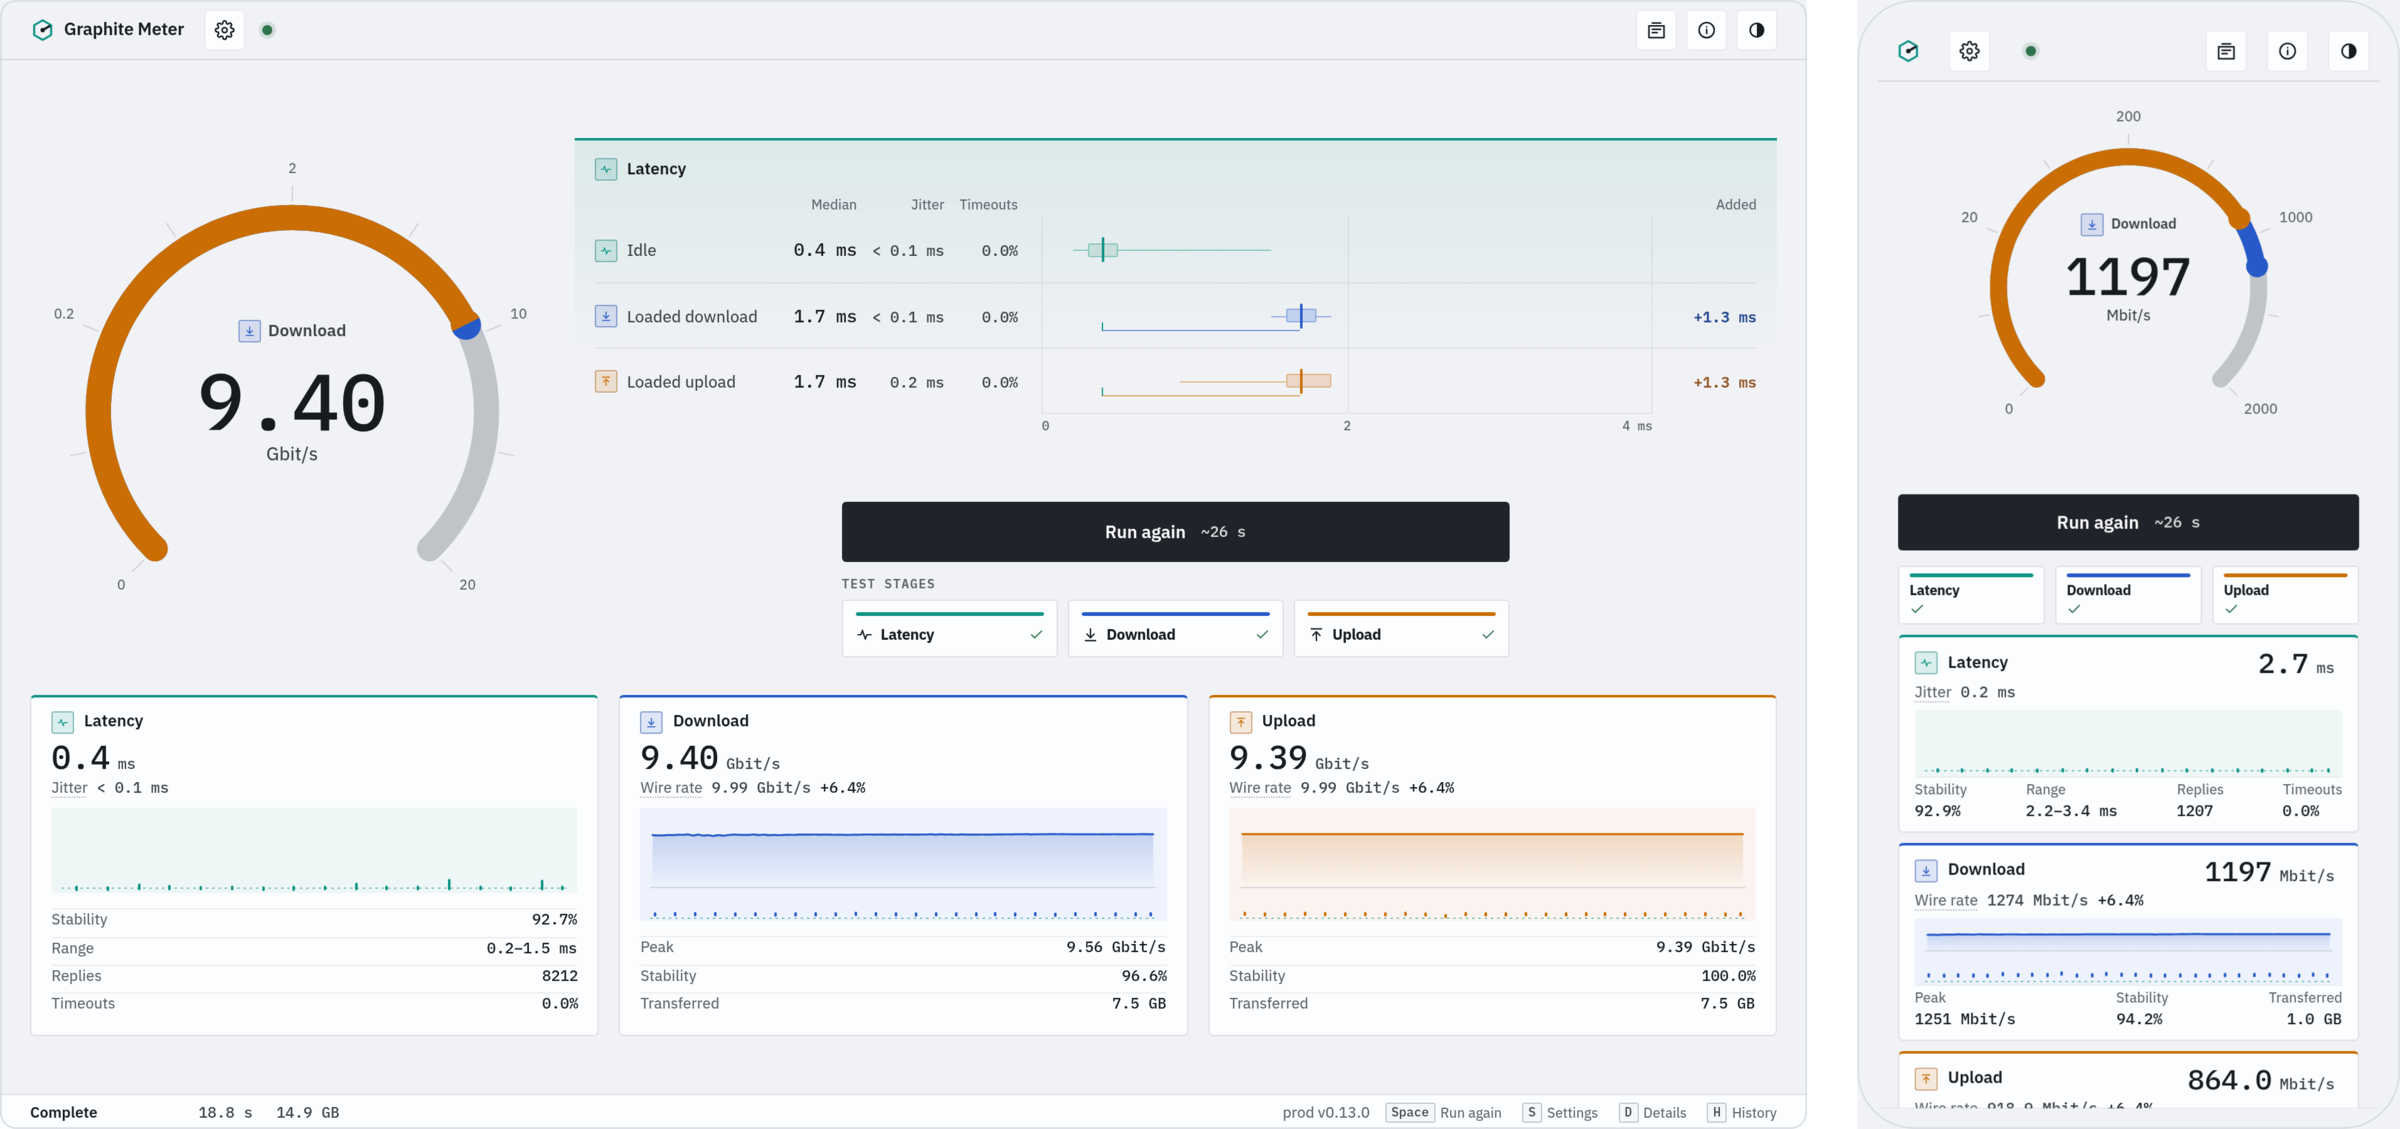
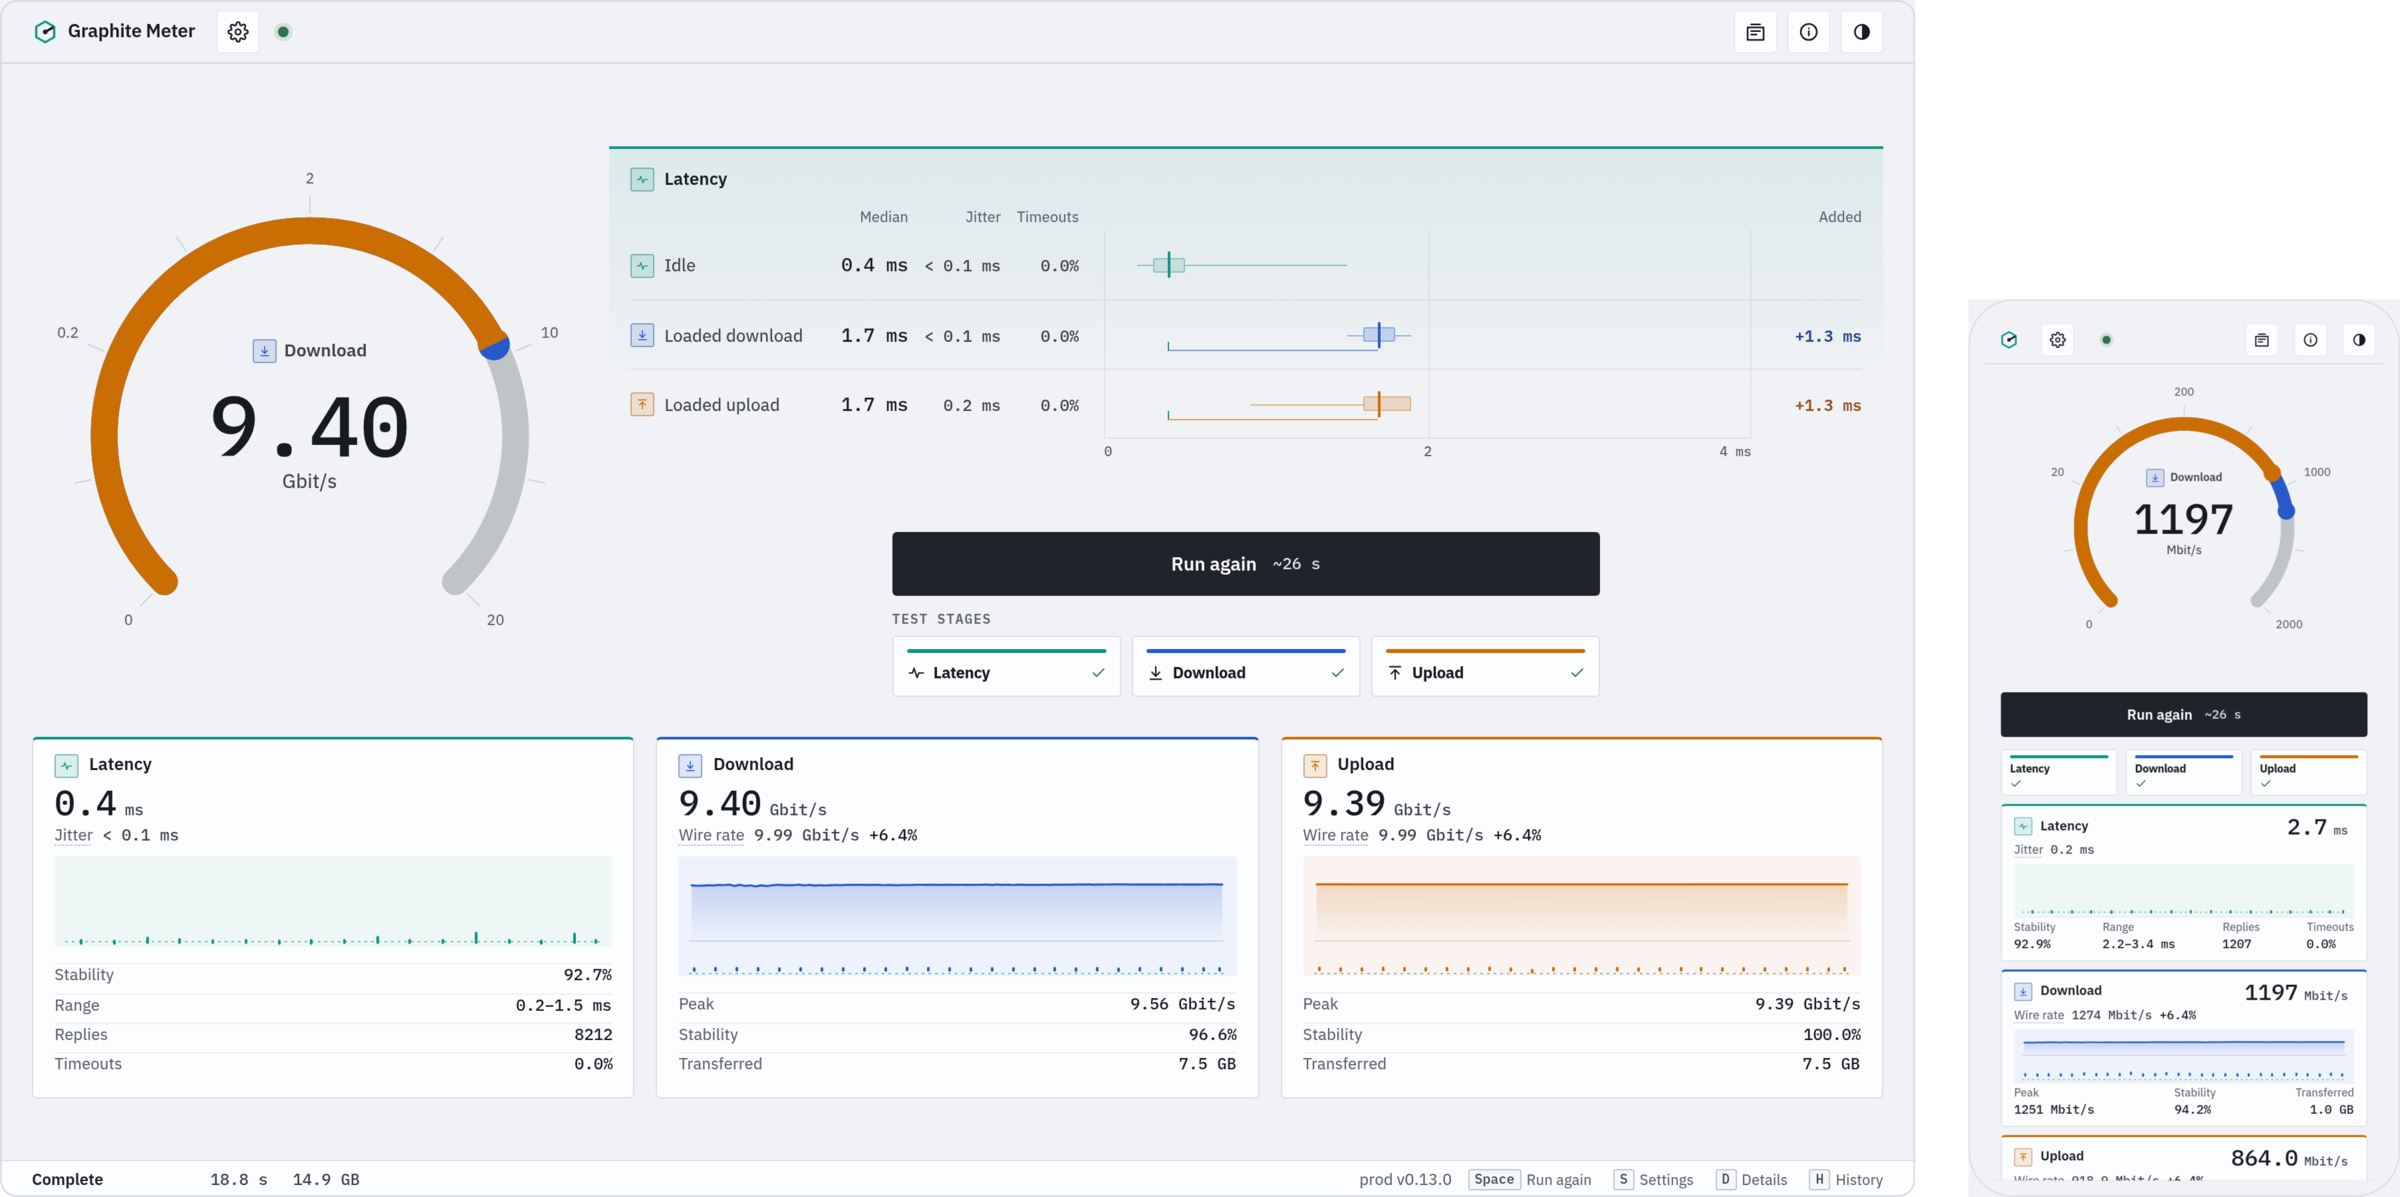
Draw the hero phone at a phone's size and drop the captions
The phone is 75 % of the desktop's height, the ratio of a 6.1-inch phone
screen to a 14-inch laptop screen. Figures carry alt text only; noun
headings, one-word table headers, and every lone line is now a sentence
or a table row.

diff --git a/README.md b/README.md
@@ -4,7 +4,7 @@
 
 # Graphite Meter
 
-Self-hosted speed and latency test. One container. Browser or terminal.
+A self-hosted speed and latency test, in one container, for the browser and the terminal.
 
 [![CI](https://img.shields.io/github/actions/workflow/status/zR-JB/graphite-meter/ci.yml?branch=main&label=CI&logo=githubactions&logoColor=white)](https://github.com/zR-JB/graphite-meter/actions/workflows/ci.yml)
 [![Release](https://img.shields.io/github/v/release/zR-JB/graphite-meter?sort=semver&label=release&logo=github)](https://github.com/zR-JB/graphite-meter/releases/latest)
@@ -16,74 +16,80 @@ Self-hosted speed and latency test. One container. Browser or terminal.
   <img src="docs/assets/hero-light.png" width="100%" alt="A completed test on a desktop, 9.40 Gbit/s down and 9.39 up with 0.4 ms idle latency and 1.3 ms added under load, and the same app on a phone at 1197 Mbit/s">
 </picture>
 
-<sub>0.13.0 in Chrome. Desktop: path shaped to 9.8 Gbit/s. Phone: 1.25 Gbit/s down, 0.9 up. The app sets no rate limit.</sub>
-
 </div>
 
-## Run it
+## Install
 
 ```sh
 docker run -d --name graphite-meter --restart unless-stopped -p 7246:7246 ghcr.io/zr-jb/graphite-meter:latest
 ```
 
-Open `http://SERVER_IP:7246`. One static binary in a scratch image, amd64 and arm64, no database.
+Open `http://SERVER_IP:7246`. The image holds one static binary, for amd64 and arm64, with no database behind it.
 
-| You want                         | Read                                                                                                                   |
-| -------------------------------- | ---------------------------------------------------------------------------------------------------------------------- |
-| HTTP/2, HTTP/3, WebTransport     | They need TLS: [native listeners](docs/DEPLOYMENT.md#native-listeners) or a [reverse proxy](docs/DEPLOYMENT.md#reverse-proxies) |
-| Compose, Podman Quadlet          | [Docker Compose](docs/DEPLOYMENT.md#docker-compose), [Quadlet](container/quadlet/README.md)                           |
-| Sign-in, password or OIDC        | [Authentication](docs/DEPLOYMENT.md#authentication)                                                                   |
-| More than one test server        | [Server catalog](docs/DEPLOYMENT.md#server-catalog)                                                                   |
+| Setup                        | Guide                                                                                                                              |
+| ---------------------------- | ---------------------------------------------------------------------------------------------------------------------------------- |
+| HTTP/2, HTTP/3, WebTransport | They need TLS: [native listeners](docs/DEPLOYMENT.md#native-listeners) or a [reverse proxy](docs/DEPLOYMENT.md#reverse-proxies). |
+| Compose, Podman Quadlet      | [Docker Compose](docs/DEPLOYMENT.md#docker-compose) and [Quadlet](container/quadlet/README.md).                                  |
+| Sign-in                      | A password or your OIDC provider: [authentication](docs/DEPLOYMENT.md#authentication).                                            |
+| More than one test server    | A [server catalog](docs/DEPLOYMENT.md#server-catalog).                                                                            |
 
-## What it measures
+## Measurements
 
-| Result     | How                                                                                                                 |
-| ---------- | ------------------------------------------------------------------------------------------------------------------- |
-| Throughput | Download and upload, timed by the receiver: the browser for downloads, the server for uploads.                     |
+| Result     | Method                                                                                                                  |
+| ---------- | ----------------------------------------------------------------------------------------------------------------------- |
+| Throughput | Download and upload, timed by the receiver: the browser for downloads, the server for uploads.                         |
 | Latency    | Idle and under load as separate populations: median, P95, jitter, timeouts. The difference is the queueing under load. |
-| Servers    | One to four test servers in one test, on one schedule.                                                              |
-| Paths      | Throughput and latency on separate paths: HTTP/1.1, HTTP/2, HTTP/3, WebSocket, WebTransport. Automatic or chosen.    |
+| Servers    | One to four test servers in one test, on one schedule.                                                                  |
+| Paths      | Throughput and latency on separate paths: HTTP/1.1, HTTP/2, HTTP/3, WebSocket, WebTransport. Automatic or chosen.       |
 
-Every number is defined in [measurement definitions](docs/MEASUREMENTS.md). Nothing is graded.
+Each result is defined in the [measurement definitions](docs/MEASUREMENTS.md); the app reports numbers and grades
+nothing.
 
 ## Terminal
+
+<div align="center">
 
 <picture>
   <source media="(prefers-color-scheme: dark)" srcset="docs/assets/terminal-dark.png">
   <img src="docs/assets/terminal-light.png" width="100%" alt="The terminal client after a completed test: 2.35 Gbit/s each way, 0.4 ms idle latency, 2.7 ms added under load">
 </picture>
 
-<sub>graphite-meter-client 0.13.0, same server, path shaped to 2.46 Gbit/s.</sub>
+</div>
 
 ```sh
 graphite-meter-client --url http://192.168.1.20:7246
 graphite-meter-client --url https://meter.example --server frankfurt --server amsterdam --report
 ```
 
-| Client        | Detail                                                                                            |
-| ------------- | ------------------------------------------------------------------------------------------------- |
-| Platforms     | Linux amd64, Linux arm64, Windows amd64. One static executable per [release](https://github.com/zR-JB/graphite-meter/releases). |
-| `--report`    | One test without the console; the report on stdout, the outcome in the exit status.               |
-| Guide         | [Flags, keys, report mode, exit codes](docs/TERMINAL.md)                                           |
+| Client     | Detail                                                                                                                          |
+| ---------- | ------------------------------------------------------------------------------------------------------------------------------- |
+| Platforms  | Linux amd64, Linux arm64, Windows amd64. One static executable per [release](https://github.com/zR-JB/graphite-meter/releases). |
+| `--report` | One test without the console; the report on stdout, the outcome in the exit status.                                             |
+| Guide      | [Flags, keys, report mode and exit codes](docs/TERMINAL.md).                                                                    |
 
 ## Settings and History
 
 <div align="center">
+
 <picture>
   <source media="(prefers-color-scheme: dark)" srcset="docs/assets/phones-dark.png">
   <img src="docs/assets/phones-light.png" width="700" alt="Two phone screens: Settings with three test servers and the throughput paths, and History with four results">
 </picture>
+
 </div>
 
-History keeps up to 2,000 results in the browser. The server stores none.
+| Sheet    | Content                                                                                  |
+| -------- | ---------------------------------------------------------------------------------------- |
+| Settings | The test servers, the throughput and latency paths, the stages and the advanced settings. |
+| History  | Up to 2,000 results, stored in the browser only; the server keeps none.                   |
 
 ## Trust
 
-| Area     | What the code does                                                                                           |
-| -------- | ------------------------------------------------------------------------------------------------------------ |
-| Sign-in  | Off, a password, or your OIDC provider. It covers the app and every measurement route. The terminal client approves a code in the browser and never sees the password. |
-| Network  | No outbound connection unless OIDC is configured. The browser app loads nothing from a third party.          |
-| License  | AGPL-3.0. Every image and archive ships its license notices; every release attaches the third-party source. |
+| Area    | Guarantee                                                                                                                                                      |
+| ------- | -------------------------------------------------------------------------------------------------------------------------------------------------------------- |
+| Sign-in | Off, a password, or your OIDC provider. It covers the app and every measurement route. The terminal client approves a code in the browser and never sees the password. |
+| Network | No outbound connection unless OIDC is configured. The browser app loads nothing from a third party.                                                            |
+| License | AGPL-3.0. Every image and archive ships its license notices; every release attaches the third-party source.                                                    |
 
 > [!NOTE]
 > Upgrading from 0.12 or earlier: `latest` is now the Rust server. See [upgrading](docs/DEPLOYMENT.md#upgrading).
@@ -98,8 +104,8 @@ History keeps up to 2,000 results in the browser. The server stores none.
 
 ## Contributing
 
-`mise run setup`, then `mise run dev` on port 7246, then `mise run check` before a pull request. The rest is in the
-[development guide](docs/DEVELOPMENT.md).
+`mise run setup` installs the toolchain, `mise run dev` serves a development build on port 7246, and
+`mise run check` runs the gate a pull request must pass. The [development guide](docs/DEVELOPMENT.md) has the rest.
 
 ## License
 

diff --git a/docs/TERMINAL.md b/docs/TERMINAL.md
@@ -4,10 +4,14 @@
 chosen throughput and latency paths, idle and loaded latency, receiver-timed throughput. It has an interactive
 console and a report mode for scripts.
 
+<div align="center">
+
 <picture>
   <source media="(prefers-color-scheme: dark)" srcset="assets/terminal-dark.png">
-  <img src="assets/terminal-light.png" width="100%" alt="The terminal client after a completed test: 2.35 Gbit/s each way with 0.4 ms idle latency and 2.7 ms added under load">
+  <img src="assets/terminal-light.png" width="100%" alt="The terminal client after a completed test: 2.35 Gbit/s each way, 0.4 ms idle latency, 2.7 ms added under load">
 </picture>
+
+</div>
 
 ## Install
 
